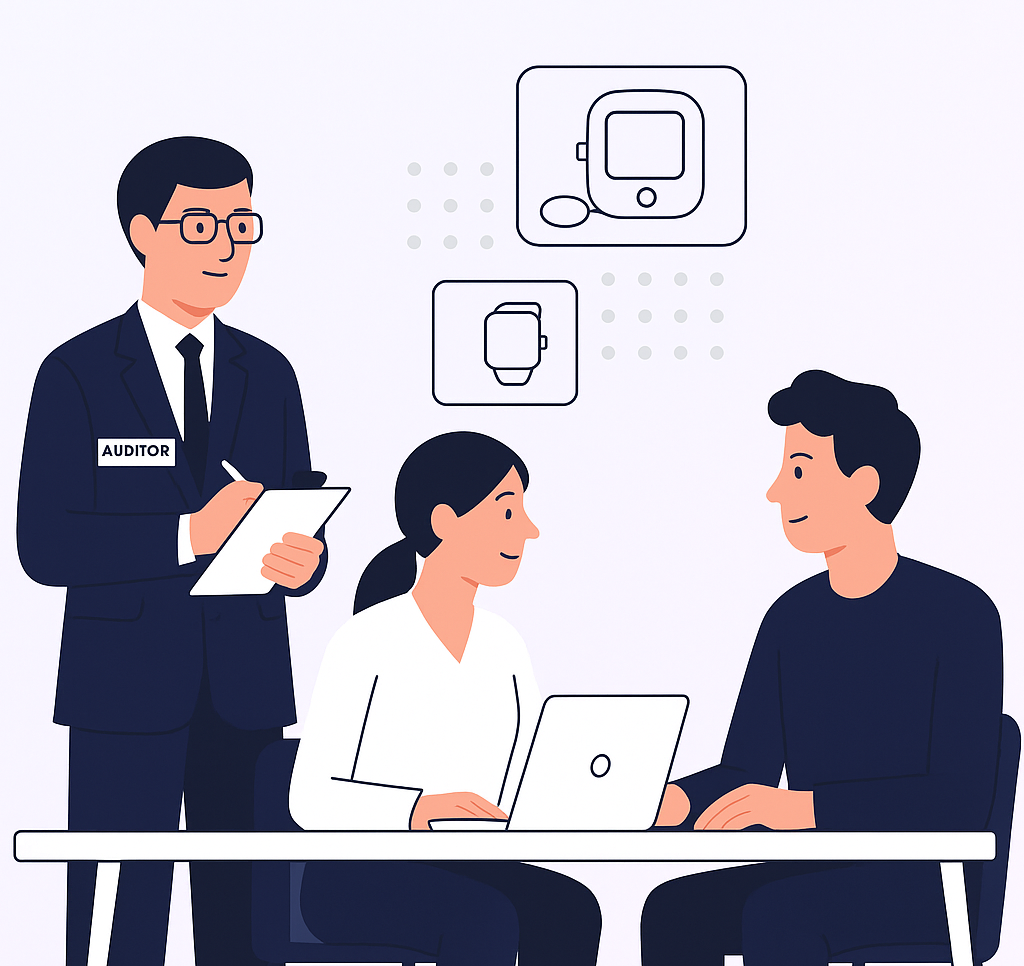
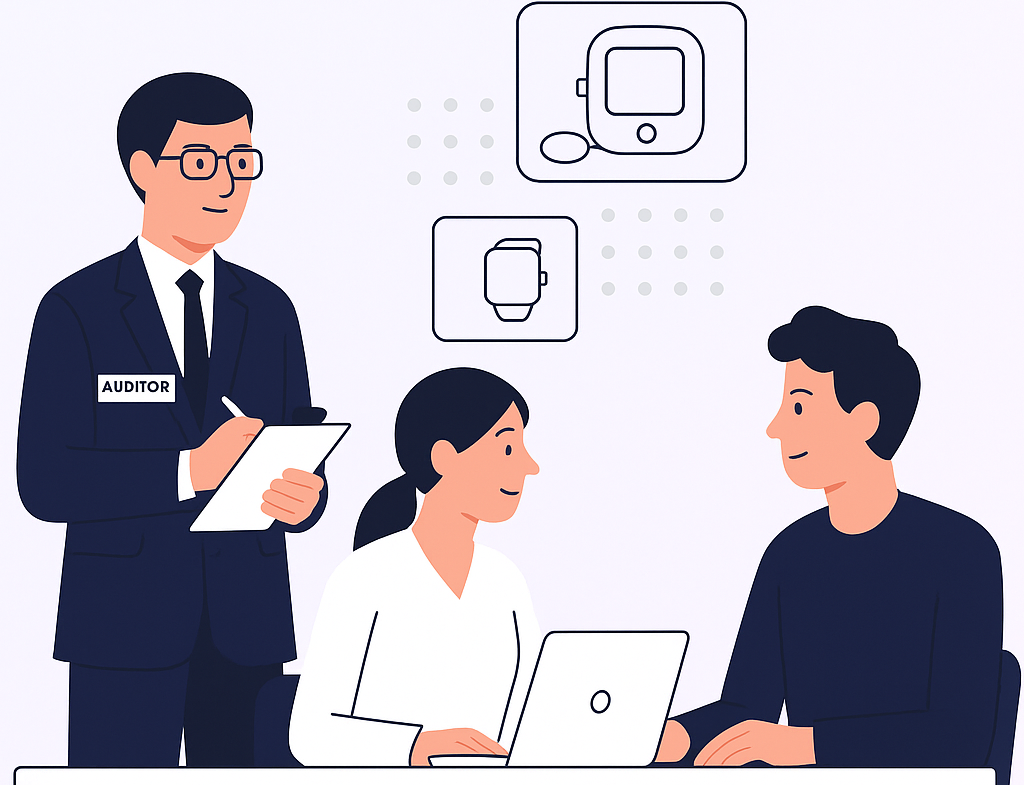
Revise content and visuals across multiple pages for clarity; update regulatory descriptions, testimonials, and footer information; enhance QMS messaging and add new images.

diff --git a/app/quality/page.tsx b/app/quality/page.tsx
@@ -140,8 +140,12 @@ export default function QualityPage() {
 Your QMS should reflect your product, your people, and your stage of growth.
                   </p>
                <p className="text-gray-700 mb-6">
-                At LucidMind consulting, We design clean, smart and scalable QMS that are actually usable. We closely work with each team of your organization to understand the gaps and build processes that are tailored to your unique needs and compliant with the relevant QS regulations: ISO 13485, FDA QSR (21 CFR Part 820), and EU MDR
+                At LucidMind consulting, we design clean, smart and scalable QMS that are actually usable. We closely work with each team of your organization to understand the gaps and build processes that are tailored to your unique needs and compliant with the relevant QS regulations: ISO 13485, FDA QSR (21 CFR Part 820), and EU MDR
 
+                  </p>
+
+                  <p className="text-gray-700 ">
+                    We also perform comprehensive internal audits that prepare you to successfully clear external ISO audits and obtain ISO 13485 certification.
                   </p>
             </motion.div>
 
@@ -152,11 +156,12 @@ Your QMS should reflect your product, your people, and your stage of growth.
               transition={{ duration: 0.8 }}
               viewport={{ once: true }}
             >
-              <div className="bg-gradient-to-br from-blue-50 to-purple-50 p-8 rounded-2xl">
+              <div className="bg-gradient-to-br from-blue-50 to-purple-50 p-8 rounded-xl">
                 <img
-                  src="/Gemini_Generated_Image_sgeoftsgeoftsgeo.png?height=800&width=500"
+                // style={{width:'100%' , height:'40%'}}
+                  src="/scalableqms1.png"
                   alt="Regulatory Strategy Visualization"
-                  className="w-full h-58 object-cover rounded-lg"
+                  className="w-full  h-65 rounded-lg mx-auto"
                 />
               </div>
             </motion.div>
@@ -166,7 +171,7 @@ Your QMS should reflect your product, your people, and your stage of growth.
 
      
       {/* Problem-Solution Section */}
-      <section className="py-16  bg-white">
+      <section className="py-0  bg-white  pb-16">
         <div className="container mx-auto px-4">
           <div className="grid lg:grid-cols-2 gap-16 items-center">
             {/* Problems */}
@@ -364,7 +369,7 @@ Your QMS should reflect your product, your people, and your stage of growth.
             transition={{ duration: 0.8 }}
             viewport={{ once: true }}
           >
-            <h2 className="text-4xl font-bold text-white mb-8">Let’s build a QMS that grows with you</h2>
+            <h2 className="text-4xl font-bold text-white mb-8">Build a QMS that grows with you</h2>
             <p className="text-xl text-gray-300 mb-12 max-w-2xl mx-auto">
               Let's discuss how we can transform your quality systems and prepare you for success.
             </p>
@@ -377,8 +382,8 @@ Your QMS should reflect your product, your people, and your stage of growth.
               className="bg-blue-600 hover:bg-blue-700 text-white px-8 py-4 text-lg rounded-full shadow-lg hover:shadow-xl transition-all duration-300"
             >
               <a
-              href={`mailto:info@lucidmindconsulting.com?subject=${encodeURIComponent(
-                "Inquiry from LucidMind Website"
+               href={`mailto:rajzaveri10@gmail.com?subject=${encodeURIComponent(
+                "Inquiry to LucidMind Consulting"
               )}&body=${encodeURIComponent(
                 "Hi LucidMind Team,\n I'am interested in learning more about your regulatory consulting services. Please contact me with more information. \n Thank you!"
               )}`}

diff --git a/components/footer.tsx b/components/footer.tsx
@@ -27,15 +27,15 @@ export default function Footer() {
         <div className="flex flex-col items-center text-center justify-center mx-auto">
         <Link href="/" className="flex items-center justify-center">
           <img
-            src="/logo-footer (2).png"
+            src="/footerLOgowhite.png"
             alt="Logo"
-            className="h-20 w-auto max-w-xs object-contain mb-1"
-            style={{ maxHeight: "60px" }}
+            className="h-20  max-w-xs object-contain mb-1"
+            style={{ maxHeight: "60px" ,width:"80%"}}
           />
         </Link>
-        <p className="text-gray-400 mb-6 max-w-md">
+        {/* <p className="text-gray-400 mb-6 max-w-md">
          Compliance meets Clarity <br></br> Simplifying medical device regulatory and quality challenges. 
-        </p>
+        </p> */}
         <div className="flex space-x-4 justify-center">
           <motion.a
           href="https://www.linkedin.com/in/raj-zaveri-35013b174/"
@@ -47,8 +47,8 @@ export default function Footer() {
           <Linkedin className="h-5 w-5" />
           </motion.a>
           <motion.a
-          href={`mailto:info@lucidmindconsulting.com?subject=${encodeURIComponent(
-                "Inquiry from LucidMind Website"
+          href={`mailto:rajzaveri10@gmail.com?subject=${encodeURIComponent(
+                "Inquiry to LucidMind Consulting"
               )}&body=${encodeURIComponent(
                 "Hi LucidMind Team,\n I'am interested in learning more about your regulatory consulting services. Please contact me with more information. \n Thank you!"
               )}`}
@@ -59,7 +59,7 @@ export default function Footer() {
           <Mail className="h-5 w-5" />
           </motion.a>
           <motion.a
-          href="tel:+1234567890"
+          href="tel:+91 8369438297"
           className="w-10 h-10 bg-gray-800 rounded-full flex items-center justify-center hover:bg-blue-600 transition-colors duration-200"
           whileHover={{ scale: 1.1 }}
           whileTap={{ scale: 0.95 }}

diff --git a/app/page.tsx b/app/page.tsx
@@ -11,13 +11,13 @@ const testimonials = [
     quote: "Finally, regulatory consulting that speaks our language - clear, actionable, results-driven.",
     author: "Rajeev Nohria",
     title: "CEO",
-    company: "Better Diagnostics",
+    company: "Better Diagnostics AI Corp.",
   },
   {
-    quote: "LucidMind transformed our regulatory approach. What seemed impossible became achievable.",
-    author: "Sarah Chen",
-    title: "CEO, MedTech Innovations",
-    company: "Series B Startup",
+    quote: "Precise and Pragmatic. LucidMind analyzed our regulatory needs, decoded the complexity, and delivered clear, actionable guidance.",
+    author: "Sudeep Bath",
+    title: "Founder & CEO",
+    company: "HealthArc",
   },
   // {
   //   quote: "Their quality system implementation saved us 6 months and countless headaches.",
@@ -304,8 +304,8 @@ You innovate — we handle the regulatory grind
               className="bg-blue-600 hover:bg-blue-700 text-white px-8 py-4 text-lg rounded-full shadow-lg hover:shadow-xl transition-all duration-300"
             >
               <a
-              href={`mailto:info@lucidmindconsulting.com?subject=${encodeURIComponent(
-                "Inquiry from LucidMind Website"
+              href={`mailto:rajzaveri10@gmail.com?subject=${encodeURIComponent(
+                "Inquiry to LucidMind Consulting"
               )}&body=${encodeURIComponent(
                 "Hi LucidMind Team,\n I'am interested in learning more about your regulatory consulting services. Please contact me with more information. \n Thank you!"
               )}`}

diff --git a/app/regulatory/page.tsx b/app/regulatory/page.tsx
@@ -465,8 +465,8 @@ Because compliance shouldn’t be a bottleneck — it should be your launchpad.
               className="bg-blue-600 hover:bg-blue-700 text-white px-8 py-4 text-lg rounded-full shadow-lg hover:shadow-xl transition-all duration-300"
             >
               <a
-              href={`mailto:info@lucidmindconsulting.com?subject=${encodeURIComponent(
-                "Inquiry from LucidMind Website"
+              href={`mailto:rajzaveri10@gmail.com?subject=${encodeURIComponent(
+                "Inquiry to LucidMind Consulting"
               )}&body=${encodeURIComponent(
                 "Hi LucidMind Team,\n I'am interested in learning more about your regulatory consulting services. Please contact me with more information. \n Thank you!"
               )}`}

diff --git a/app/layout.tsx b/app/layout.tsx
@@ -11,10 +11,11 @@ const inter = Inter({ subsets: ["latin"] })
 export const metadata: Metadata = {
   title: "LucidMind Consulting - Medical Device Regulatory & Quality",
   description:
-    "Medical meets Clarity. Regulatory made simple. Bringing your medical device to market, without the maze.",
+    "We help medtech teams clear regulatory hurdles and build scalable QMS—whether it’s hardware, software, or AI-driven innovation.",
   keywords: "medical device, regulatory consulting, quality management, FDA, EU MDR, ISO 13485",
   icons:{
-    icon: "/logometa-removebg-preview.png", // Path to your favicon in the public directory
+    icon: "/logometa-removebg-preview.png", 
+     // Path to your favicon in the public directory
   },
     generator: 'v0.dev'
 }

diff --git a/components/floating-contact.tsx b/components/floating-contact.tsx
@@ -18,8 +18,8 @@ export default function FloatingContact() {
     {
       icon: Mail,
       label: "Email Us",
-      action: `mailto:info@lucidmindconsulting.com?subject=${encodeURIComponent(
-                "Inquiry from LucidMind Website"
+      action: `mailto:rajzaveri10@gmail.com?subject=${encodeURIComponent(
+                "Inquiry to LucidMind Consulting"
               )}&body=${encodeURIComponent(
                 "Hi LucidMind Team,\n I'am interested in learning more about your regulatory consulting services. Please contact me with more information.\n Thank you!"
               )}`,
